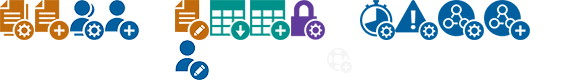
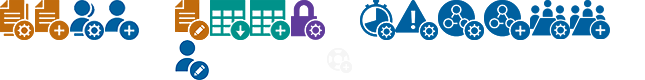
Manage DAC in Admin Console page

diff --git a/src/pages/AdminConsole.js b/src/pages/AdminConsole.js
@@ -262,8 +262,42 @@ class AdminConsole extends Component {
                   onOKRequest: this.okModal,
                   onCloseRequest: this.closeModal,
                   onAfterOpen: this.afterModalOpen
-                }),
+                })
+              ])
+            ]),
+
+            div({ className: "row fsi-row-lg-level fsi-row-md-level no-margin" }, [
+              div({ className: "col-lg-6 col-md-6 col-sm-12 col-xs-12 admin-box" }, [
+                AdminConsoleBox({
+                  id: 'btn_manageDAC',
+                  url: '/admin_manage_dac',
+                  color: 'common',
+                  title: 'Manage Data Access Committee',
+                  description: 'Create and manage Data Access Committees',
+                  iconName: 'manage-dac',
+                  iconSize: 'large',
+                  unreviewedCases: darUnreviewedCases
+                })
               ]),
+
+              div({ className: "col-lg-6 col-md-6 col-sm-12 col-xs-12 admin-box" }, [
+                AdminConsoleBox({
+                  id: 'btn_addDAC',
+                  clickHandler: this.addDataset,
+                  color: 'common',
+                  title: 'Add Data Access Committee',
+                  description: 'Create a new Data Access Committee in the system',
+                  iconName: 'add-dac',
+                  iconSize: 'large',
+                  unreviewedCases: 0
+                }),
+                AddDatasetModal({
+                  showModal: this.state.showAddDatasetModal,
+                  onOKRequest: this.okModal,
+                  onCloseRequest: this.closeModal,
+                  onAfterOpen: this.afterModalOpen
+                })
+              ])
             ]),
 
             div({ className: "row fsi-row-lg-level fsi-row-md-level no-margin" }, [
@@ -285,7 +319,7 @@ class AdminConsole extends Component {
                   onOKRequest: this.okModal,
                   onCloseRequest: this.closeModal,
                   onAfterOpen: this.afterModalOpen
-                }),
+                })
               ]),
 
               div({ className: "col-lg-6 col-md-6 col-sm-12 col-xs-12 admin-box" }, [
@@ -298,8 +332,8 @@ class AdminConsole extends Component {
                   iconName: 'invalid-restrictions',
                   iconSize: 'large',
                   unreviewedCases: 0
-                }),
-              ]),
+                })
+              ])
             ]),
 
             div({ className: "row fsi-row-lg-level fsi-row-md-level no-margin" }, [
@@ -313,7 +347,7 @@ class AdminConsole extends Component {
                   iconName: 'manage-ontologies',
                   iconSize: 'large',
                   unreviewedCases: 0
-                }),
+                })
               ]),
 
               div({ className: "col-lg-6 col-md-6 col-sm-12 col-xs-12 admin-box" }, [

diff --git a/src/components/AdminConsoleBox.css b/src/components/AdminConsoleBox.css
@@ -154,6 +154,24 @@
     background-position: -484px -40px !important;
 }
 
+.manage-dac {
+    background-position: -530px 0;
+    width: 40px !important;
+}
+
+.admin-box:hover .manage-dac {
+    background-position: -530px -40px !important;
+}
+
+.add-dac {
+    background-position: -570px 0;
+    width: 40px !important;
+}
+
+.admin-box:hover .add-dac {
+    background-position: -570px -40px !important;
+}
+
 .admin-box-text.default{
     margin: 10px 0 5px 45px;
 }
